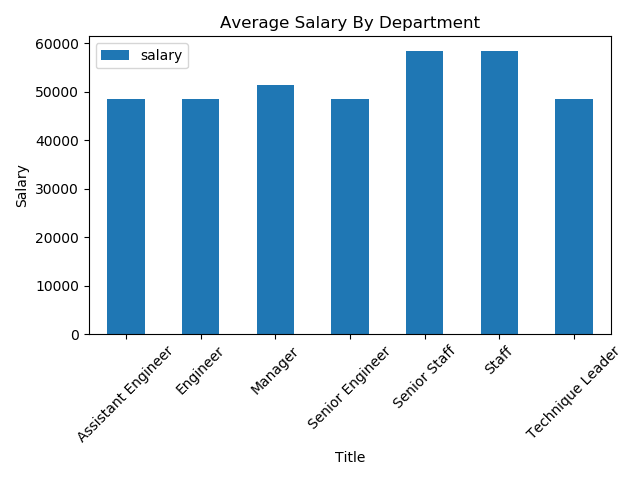
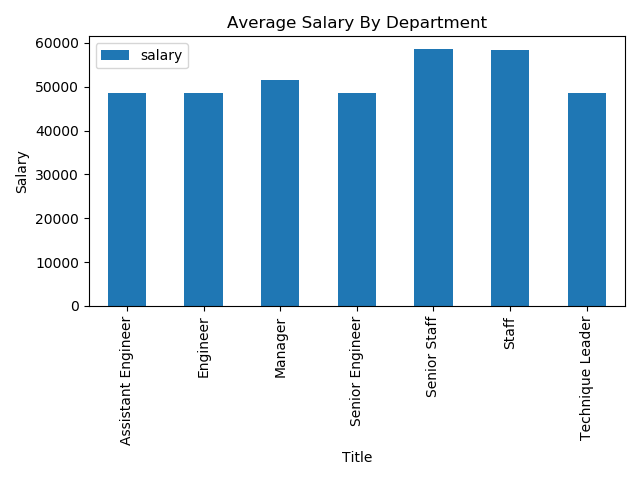
Added Second Graph

diff --git a/sqlData.py b/sqlData.py
@@ -10,8 +10,9 @@ from tqdm import tqdm
 
 
 engine = create_engine(f'postgresql+psycopg2://{database}:{password}@localhost:5432/company_db', echo=False)
-
 Base = declarative_base()
+Session = sessionmaker(bind=engine)
+s = Session()
 
 class Titles(Base): 
 	__tablename__ = 'titles'
@@ -33,36 +34,38 @@ class Employees(Base):
 class Salaries(Base):
 	__tablename__  = 'salaries'
 
-	emp_no = Column(Integer, primary_key=True)
+	emp_no = Column(Integer, primary_key=True )
 	salary = Column(Integer)
 
+def plotBarChart(title_df):
+	grouped_df = title_df.groupby(["title"]).mean()
+	grouped_df.plot(kind = "bar", rot=90)
+	plt.title("Average Salary By Department")
+	plt.xlabel("Title")
+	plt.ylabel("Salary")
+	plt.tight_layout()
+	plt.savefig("salaryBar.png")
 
+def plotHisto(title_df):
+	title_df.hist()
+	plt.xlabel("Salary")
+	plt.ylabel('Count of Employees')
+	plt.title('Most Common Salary Range')
+	plt.savefig("salaryHist.png")
 
+def createDF(session):
+	tList = []
+	results = session.query(Employees, Titles, Salaries).join(Titles,Titles.title_id == Employees.emp_title_id).join(Salaries,Employees.emp_no == Salaries.emp_no).all()
+	for row in results: 
+		tDict = {"title": row[1].title, 
+		   		 "salary": row[2].salary
+				}
+		tList.append(tDict)												
+	df = pd.DataFrame(tList)
 
-Session = sessionmaker(bind=engine)
-s = Session()
+	return df
 
-# result = session.query(Employees).all()
-# results2 = session.query(Salaries).all() 
-# results3 = session.query(Titles).all()
-
-results = s.query(Employees, Titles, Salaries).join(Titles,Titles.title_id == Employees.emp_title_id).join(Salaries,Employees.emp_no == Salaries.emp_no).all()
-													
-tList = []
-
-for row in results: 
-	tDict = {"title": row[1].title, 
-		   "salary": row[2].salary
-	}
-	tList.append(tDict)
-
-title_pd = pd.DataFrame(tList)
-grouped_df = title_pd.groupby(["title"]).mean()
-
-grouped_df.plot(kind = "bar", rot=45)
-plt.title("Average Salary By Department")
-plt.xlabel("Title")
-plt.ylabel("Salary")
-plt.tight_layout()
-
-plt.savefig("salaryBar.png")
+title_df = createDF(s)
+print(title_df)
+plotBarChart(title_df)
+plotHisto(title_df)
